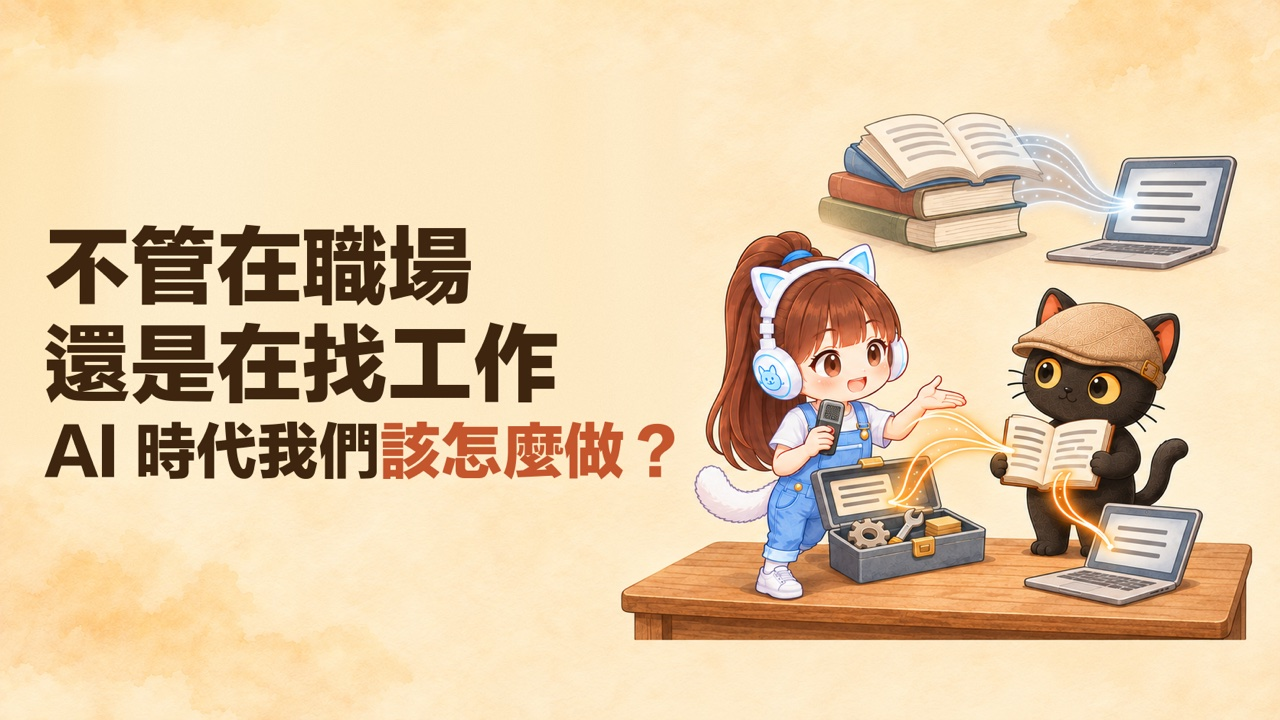
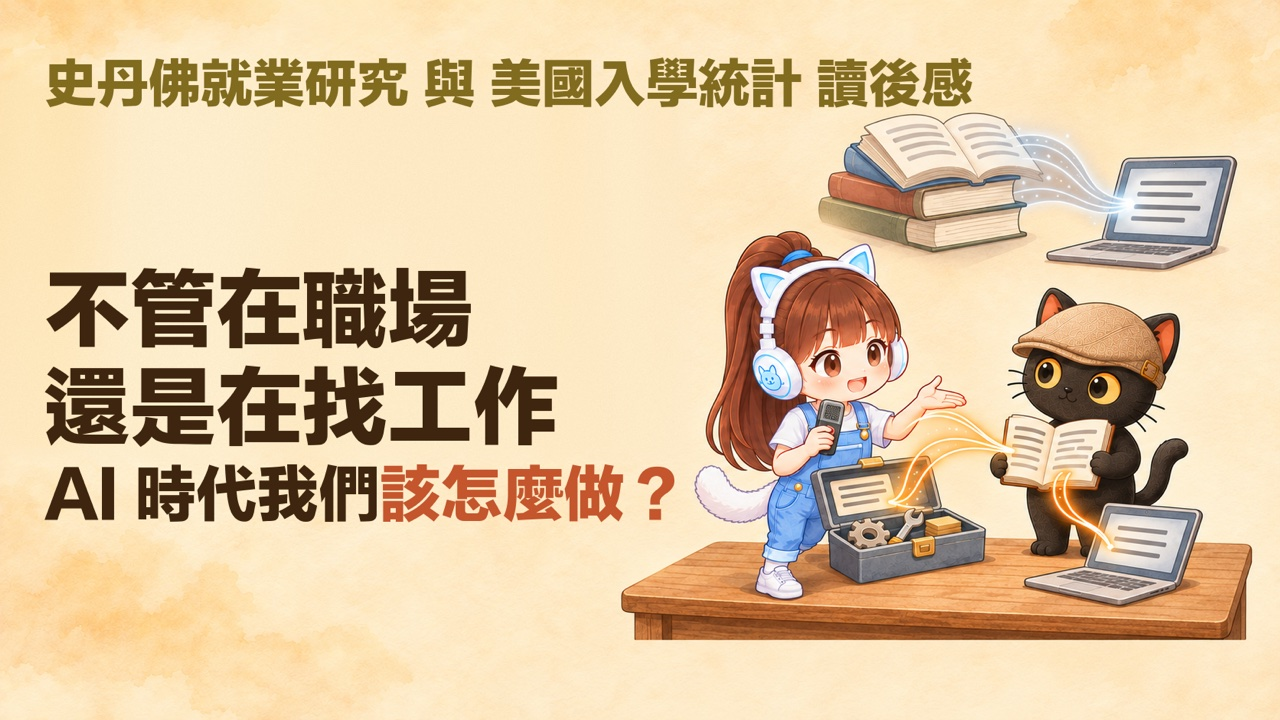
封面加讀後感字樣、刪兩件事小標後的重複句
- 封面與 OG 圖上方加「史丹佛就業研究 與 美國入學統計 讀後感」（江江 11/20）
- 「第一件事」「第二件事」小標下緊接的引用跟小標同一句，刪掉；第二件事小標補「學習或做事的時候養成習慣」
  江江：「為什麼 一句話要重複兩遍？？？」「這樣等於廢話」

Changed region(s): [[0.0312, 0.3056, 0.5312, 0.7333], [0.0312, 0.0611, 0.7812, 0.1528]]

diff --git a/articles/tacit-knowledge-to-your-own-ai/index.html b/articles/tacit-knowledge-to-your-own-ai/index.html
@@ -287,10 +287,8 @@ body.spotlight::after{content:'';position:fixed;inset:0;background:radial-gradie
 <h2>讀完兩份美國資料的想法：不管在職場還是正在找工作，都留意兩件事</h2>
 <p>讀完我蠻認同的。不管我們現在是在職場裡面，還是要找工作，我覺得都要留意兩件事。</p>
 <h3>第一件事：不要再去找那些已經很容易被 AI 學習的東西</h3>
-<div class="quote-me">不要再去找那些已經很容易被 AI 學習的東西了。</div>
 <p>論文說的標準化知識，就是靠課本、書面流程就能教會的那一類。</p>
-<h3>第二件事：把正在做、正在學的隱性知識提煉出來，給自己的 AI 做</h3>
-<div class="quote-me">我們自己在學習或做事的時候，就要養成一個習慣：把現在正在做的、正在學的這些隱性知識提煉出來，給自己的 AI 做。</div>
+<h3>第二件事：學習或做事的時候養成習慣，把正在做、正在學的隱性知識提煉出來，給自己的 AI 做</h3>
 <div class="readmore near">
   <b>提煉出來交給 AI，會不會反而被學走，我另外寫過一篇</b>
   <ul>
